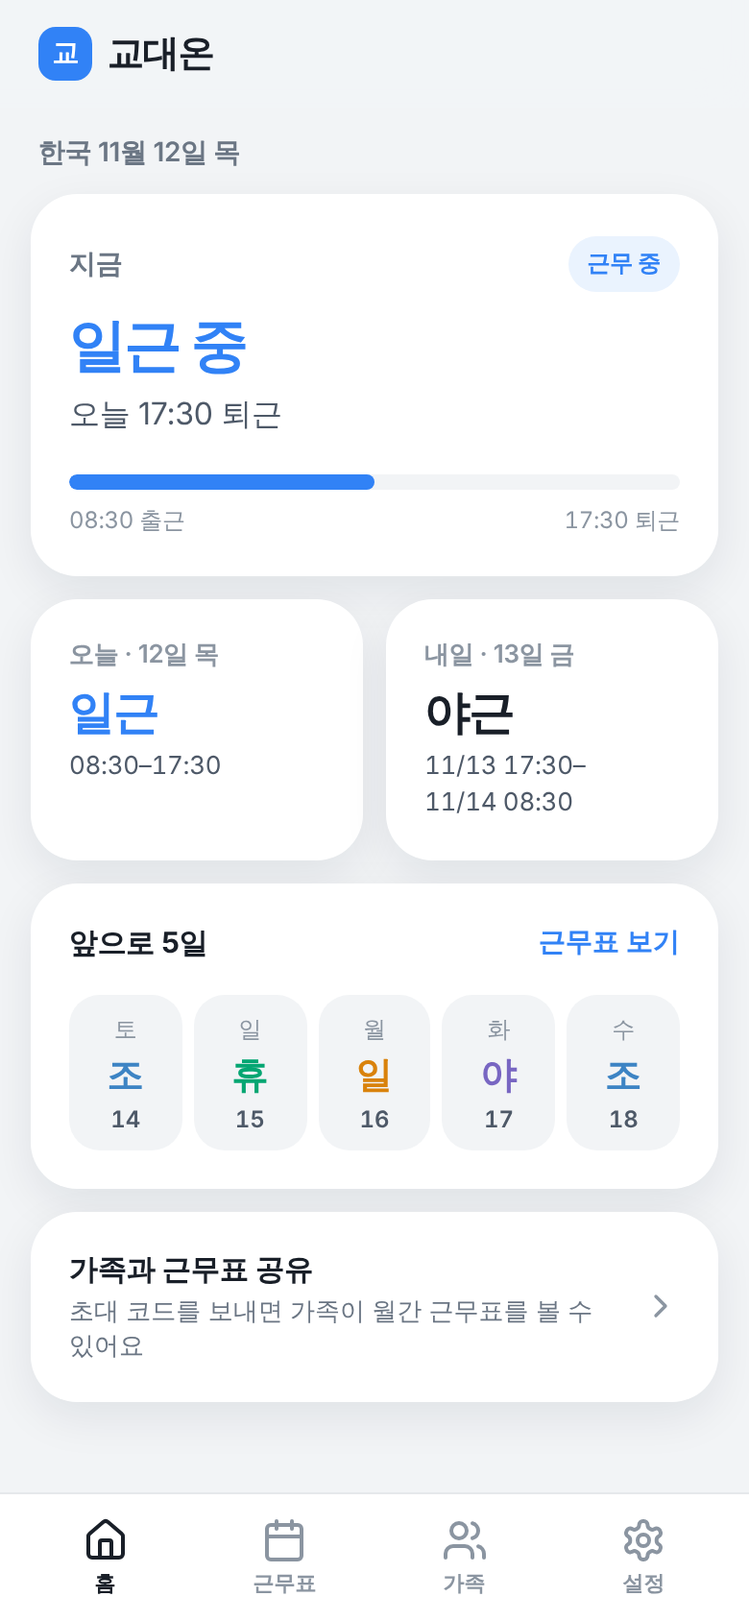
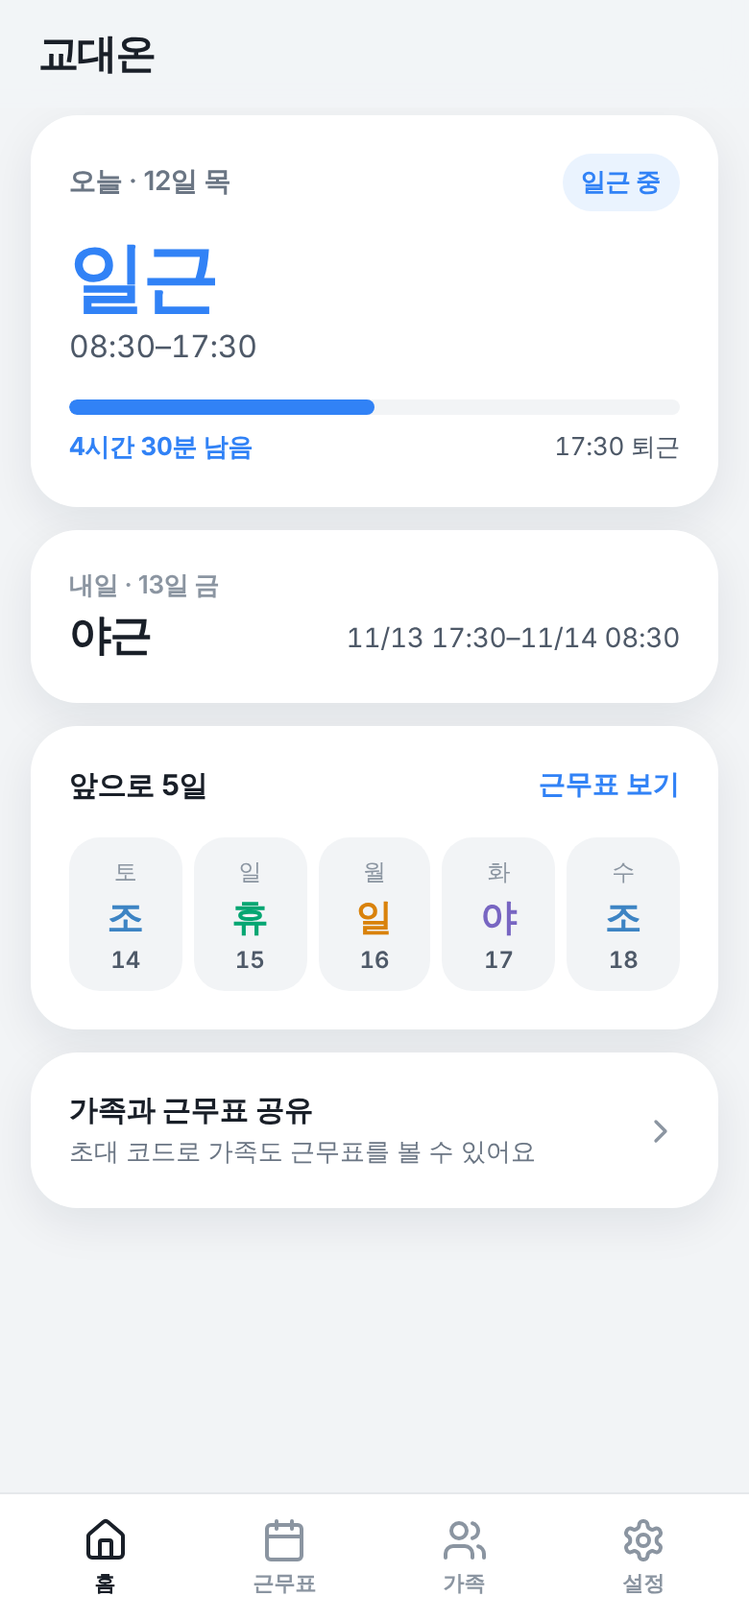
앱 홈을 위젯과 같은 구성으로 다듬고 글자 아이콘 제거
- 홈: 오늘 카드 하나(큰 근무, 시간, 상태, 남은 시간 진행), 내일 한 줄, 앞으로 5일
- 겹치던 정보(근무 중, 퇴근 시각, 근무 이름 반복) 정리, 휴무 날 배지 숨김
- 교 글자 아이콘 빼고 글자 로고만
- Stageshow 앱 홈 목업(examples/shiftwork-home)과 이미지, 앱 화면 이미지 갱신
- 실제 앱을 Stageshow layout 검사로 점검, HANDOFF 기록

Claude-Session: https://claude.ai/code/session_01Twwme8pGmW2CRkCqeQFUhx

diff --git a/index.html b/index.html
@@ -16,8 +16,7 @@ button{cursor:pointer;-webkit-tap-highlight-color:transparent}
 .ico.s{width:20px;height:20px}
 .app{max-width:480px;min-height:100vh;margin:0 auto;position:relative;padding-bottom:calc(88px + env(safe-area-inset-bottom))}
 .topbar{position:sticky;top:0;z-index:5;height:56px;padding:0 20px;display:flex;align-items:center;justify-content:space-between;background:color-mix(in srgb,var(--page) 92%,transparent);-webkit-backdrop-filter:blur(14px);backdrop-filter:blur(14px)}
-.logo{display:flex;align-items:center;gap:8px;font-size:19px;font-weight:700;letter-spacing:-.03em}
-.logo-mark{width:28px;height:28px;border-radius:9px;background:var(--blue);color:#fff;display:grid;place-items:center;font-size:14px;font-weight:700}
+.logo{font-size:21px;font-weight:800;letter-spacing:-.04em;color:var(--ink)}
 .top-actions{display:none}
 .screen{display:none;padding:4px 16px 24px}
 .screen.active{display:grid;gap:12px;animation:fade .2s ease}
@@ -29,28 +28,28 @@ button{cursor:pointer;-webkit-tap-highlight-color:transparent}
 .page-head{padding:8px 4px 0}
 .page-title{font-size:26px;font-weight:700;letter-spacing:-.03em;line-height:1.3}
 .page-sub{margin:4px 0 0;font-size:14px;color:var(--muted);line-height:1.5}
-/* 홈: 지금 상태 */
-.hero{display:grid;gap:6px;padding:22px 20px 20px}
-.hero-top{display:flex;justify-content:space-between;align-items:center;margin-bottom:4px}
+/* 홈: 오늘(위젯 4x1과 같은 순서: 오늘 크게 → 내일 → 앞으로 5일) */
+.hero{display:grid;padding:20px 20px 22px}
+.hero-top{display:flex;justify-content:space-between;align-items:center;gap:12px}
 .hero-label{font-size:14px;font-weight:600;color:var(--muted)}
-.status-badge{font-size:12px;font-weight:700;padding:6px 10px;border-radius:999px;background:var(--inset);color:var(--body)}
+.status-badge{font-size:13px;font-weight:700;padding:6px 10px;border-radius:999px;background:var(--inset);color:var(--body);white-space:nowrap}
 .hero[data-working] .status-badge{background:var(--blue-soft);color:var(--blue)}
-.hero-title{font-size:30px;font-weight:700;letter-spacing:-.04em;line-height:1.2}
-.hero[data-working] .hero-title{color:var(--blue)}
-.hero-sub{font-size:16px;color:var(--body);line-height:1.45}
-.hero-progress{display:none;gap:8px;margin-top:14px}
+.today-name{font-size:40px;font-weight:700;letter-spacing:-.04em;line-height:1.2;color:var(--blue);margin-top:10px}
+.today-hour{font-size:16px;color:var(--body);font-variant-numeric:tabular-nums;margin-top:2px}
+.today-hour:empty{display:none}
+.hero-sub{font-size:15px;color:var(--ink);font-weight:600;margin-top:16px;padding-top:16px;border-top:1px solid var(--line);line-height:1.45}
+.hero[data-working] .hero-sub{display:none}
+.hero-progress{display:none;gap:8px;margin-top:18px}
 .hero[data-working] .hero-progress{display:grid}
 .progress{height:8px;border-radius:99px;background:var(--inset);overflow:hidden}
 .progress i{display:block;height:100%;width:0;background:var(--blue);border-radius:inherit;transition:width .4s ease}
-.progress-label{display:flex;justify-content:space-between;font-size:12px;color:var(--sub);font-variant-numeric:tabular-nums}
-.hero-bottom{display:none}
-/* 홈: 오늘·내일 */
-.shift-pair{display:grid;grid-template-columns:1fr 1fr;gap:12px}
-.shift-card{display:grid;gap:4px;align-content:start}
+.progress-label{display:flex;justify-content:space-between;gap:12px;font-size:13px;color:var(--body);font-variant-numeric:tabular-nums}
+.progress-label span:first-child{color:var(--blue);font-weight:700}
+/* 홈: 내일 */
+.next-row{display:flex;justify-content:space-between;align-items:flex-end;gap:16px}
 .shift-head{font-size:13px;font-weight:600;color:var(--sub)}
-.shift-name{font-size:24px;font-weight:700;letter-spacing:-.03em;line-height:1.25;margin-top:2px}
-.shift-card.today .shift-name{color:var(--blue)}
-.shift-hour{font-size:13px;color:var(--body);line-height:1.45;font-variant-numeric:tabular-nums}
+.next-name{font-size:22px;font-weight:700;letter-spacing:-.03em;line-height:1.25;margin-top:4px}
+.next-hour{font-size:14px;color:var(--body);line-height:1.45;text-align:right;font-variant-numeric:tabular-nums;padding-bottom:2px}
 /* 홈: 앞으로 5일 */
 .card-head{display:flex;justify-content:space-between;align-items:center;margin:-4px 0 12px}
 .card-head span{font-size:15px;font-weight:700}
@@ -149,24 +148,21 @@ button{cursor:pointer;-webkit-tap-highlight-color:transparent}
 <symbol id="i-right" viewBox="0 0 24 24"><path d="m9 18 6-6-6-6"/></symbol>
 </defs></svg>
 <div class="app">
-<header class="topbar"><div class="logo"><span class="logo-mark" aria-hidden="true">교</span>교대온</div><div class="top-actions"><button class="round" id="topShare" aria-label="가족 공유" hidden></button><button class="round" id="topSettings" aria-label="설정" hidden></button></div></header>
+<header class="topbar"><div class="logo">교대온</div><div class="top-actions"><button class="round" id="topShare" aria-label="가족 공유" hidden></button><button class="round" id="topSettings" aria-label="설정" hidden></button></div></header>
 <main>
 <section class="screen active" id="screen-home">
 <h1 class="sr">오늘·내일 근무</h1>
-<div class="greeting"><span class="date-pill" id="datePill"></span></div>
 <div class="card hero" id="hero">
-<div class="hero-top"><span class="hero-label" id="heroLabel">지금</span><span class="status-badge"><span id="heroBadge">근무 아님</span></span></div>
-<div class="hero-title" id="heroTitle">근무 상태</div>
+<div class="hero-top"><span class="hero-label" id="todayHead">오늘</span><span class="status-badge" id="heroTitle">근무 상태</span></div>
+<div class="today-name" id="todayShiftName">—</div>
+<div class="today-hour" id="todayShiftHour">—</div>
 <div class="hero-sub" id="heroSub"></div>
 <div class="hero-progress"><div class="progress"><i id="progressFill"></i></div><div class="progress-label"><span id="progressFrom"></span><span id="progressTo"></span></div></div>
-<div class="hero-bottom"><span id="nextLabel"></span><strong id="nextTime"></strong></div>
+<span hidden><span id="datePill"></span><span id="heroLabel"></span><span id="heroBadge"></span><span id="nextLabel"></span><span id="nextTime"></span></span>
 </div>
-<div class="shift-pair">
-<article class="card shift-card today"><div class="shift-head" id="todayHead">오늘</div><div class="shift-name" id="todayShiftName">—</div><div class="shift-hour" id="todayShiftHour">—</div></article>
-<article class="card shift-card"><div class="shift-head" id="tomorrowHead">내일</div><div class="shift-name" id="tomorrowShiftName">—</div><div class="shift-hour" id="tomorrowShiftHour">—</div></article>
-</div>
+<div class="card next-row"><div><div class="shift-head" id="tomorrowHead">내일</div><div class="next-name" id="tomorrowShiftName">—</div></div><div class="next-hour" id="tomorrowShiftHour">—</div></div>
 <div class="card"><div class="card-head"><span>앞으로 5일</span><button class="text-btn" data-screen="calendar">근무표 보기</button></div><div class="days" id="week5"></div></div>
-<button class="card row-link" data-go="family"><span><b>가족과 근무표 공유</b><small>초대 코드를 보내면 가족이 월간 근무표를 볼 수 있어요</small></span><svg class="ico s" aria-hidden="true"><use href="#i-right"/></svg></button>
+<button class="card row-link" data-go="family"><span><b>가족과 근무표 공유</b><small>초대 코드로 가족도 근무표를 볼 수 있어요</small></span><svg class="ico s" aria-hidden="true"><use href="#i-right"/></svg></button>
 <div class="quick-hidden"><span id="iosStatus">—</span><span id="iosToday">—</span><span id="iosTomorrow">—</span><span id="androidStatus">—</span><span id="androidToday">—</span><span id="androidTomorrow">—</span></div>
 </section>
 <section class="screen" id="screen-calendar">
@@ -211,7 +207,7 @@ button{cursor:pointer;-webkit-tap-highlight-color:transparent}
 <div class="modal-back" id="modal"><section class="sheet" role="dialog" aria-labelledby="sheetTitle"><h3 id="sheetTitle">초대 코드가 복사됐어요</h3><p id="modalText">가족에게 코드를 보내고 앱에서 입력하도록 안내하세요.</p><div class="sheet-actions"><button class="soft" id="closeModal">닫기</button><button class="primary" id="copyAgain">코드 다시 복사</button></div><div class="demo">디자인 시제품이라 초대·서버 연결은 실제로 동작하지 않아요.</div></section></div>
 </div>
 <script>
-(()=>{const cycle=['일','야','조','휴'],names={일:'일근',야:'야근',조:'조근',휴:'휴무'},key='shift-on-mobile-ui-v1';const KST='Asia/Seoul';let now=new Date();const deviceTimeZone=Intl.DateTimeFormat().resolvedOptions().timeZone||KST;function zonedParts(d,tz){const out={};for(const p of new Intl.DateTimeFormat('en-CA',{timeZone:tz,year:'numeric',month:'2-digit',day:'2-digit',hour:'2-digit',minute:'2-digit',hourCycle:'h23'}).formatToParts(d))if(p.type!=='literal')out[p.type]=p.value;return out}function kstDate(d){const p=zonedParts(d,KST);return `${p.year}-${p.month}-${p.day}`}function dateKeyUTC(d){return `${d.getUTCFullYear()}-${String(d.getUTCMonth()+1).padStart(2,'0')}-${String(d.getUTCDate()).padStart(2,'0')}`}function addDays(key,n){const [y,m,d]=key.split('-').map(Number),x=new Date(Date.UTC(y,m-1,d+n));return dateKeyUTC(x)}function monthStart(key){const [y,m]=key.split('-').map(Number);return new Date(Date.UTC(y,m-1,1))}const fmt=dateKeyUTC;let data={anchor:kstDate(now),anchorShift:'일',overrides:{},invite:'',month:monthStart(kstDate(now)),selected:null};try{Object.assign(data,JSON.parse(localStorage.getItem(key)||'{}'))}catch{};data.month=monthStart(kstDate(now));let toastTimer;const $=s=>document.querySelector(s);function diffDays(a,b){const [ay,am,ad]=a.split('-').map(Number),[by,bm,bd]=b.split('-').map(Number);return (Date.UTC(ay,am-1,ad)-Date.UTC(by,bm-1,bd))/86400000}function mod(n,m){return((n%m)+m)%m}function shiftOn(date){if(data.overrides?.[date])return data.overrides[date];return cycle[mod(cycle.indexOf(data.anchorShift)+diffDays(date,data.anchor),4)]}function dateShift(d){return names[shiftOn(d)]}function tomorrowIso(d=new Date()){return addDays(kstDate(d),1)}function kstInstant(date,time){const [y,m,day]=date.split('-').map(Number),[h,min]=time.split(':').map(Number);return new Date(Date.UTC(y,m-1,day,h-9,min))}function shiftInstants(date,shift){if(shift==='일')return[kstInstant(date,'08:30'),kstInstant(date,'17:30')];if(shift==='야')return[kstInstant(date,'17:30'),kstInstant(addDays(date,1),'08:30')];if(shift==='조')return[kstInstant(addDays(date,-1),'17:30'),kstInstant(date,'08:30')];return null}function dateTimeInZone(d,tz){const p=zonedParts(d,tz);return `${Number(p.month)}/${Number(p.day)} ${p.hour}:${p.minute}`}function timeInZone(d,tz){const p=zonedParts(d,tz);return `${p.hour}:${p.minute}`}function rangeInZone(date,shift,tz){const pair=shiftInstants(date,shift);if(!pair)return '휴무';const [a,b]=pair,pa=zonedParts(a,tz),pb=zonedParts(b,tz),cross=pa.year!==pb.year||pa.month!==pb.month||pa.day!==pb.day;return cross||tz!==KST?`${dateTimeInZone(a,tz)}–${dateTimeInZone(b,tz)}`:`${timeInZone(a,tz)}–${timeInZone(b,tz)}`}function localShiftRange(date,shift){return rangeInZone(date,shift,deviceTimeZone)}function timezoneSummary(date,shift){if(shift==='휴')return '한국 기준 휴무';const kr=rangeInZone(date,shift,KST);return deviceTimeZone===KST?`한국시간 ${kr}`:`한국 ${kr} · 휴대폰 현지 ${localShiftRange(date,shift)}`}function showToast(text){const el=$('#toast');el.textContent=text;el.classList.add('show');clearTimeout(toastTimer);toastTimer=setTimeout(()=>el.classList.remove('show'),1800)}function afterWork(tom){const ts=shiftOn(tom);if(ts==='휴')return{title:'퇴근 후',sub:'내일은 휴무',working:false,next:'휴무'};const start=timeInZone(shiftInstants(tom,ts)[0],deviceTimeZone);return{title:'퇴근 후',sub:`내일 ${names[ts]} · ${start} 출근`,working:false,next:start}}function workState(d){const date=kstDate(d),p=zonedParts(d,KST),mins=Number(p.hour)*60+Number(p.minute),s=shiftOn(date),tom=addDays(date,1),clock=(day,time)=>timeInZone(kstInstant(day,time),deviceTimeZone);if(s==='일'&&mins>=510&&mins<1050)return{title:'일근 중',sub:`오늘 ${clock(date,'17:30')} 퇴근`,working:true,next:clock(date,'17:30')};if(s==='야'&&mins>=1050)return{title:'야근 중',sub:`내일 ${clock(tom,'08:30')} 퇴근`,working:true,next:clock(tom,'08:30')};if(s==='조'&&mins<510)return{title:'야근 중',sub:`오늘 ${clock(date,'08:30')} 퇴근`,working:true,next:clock(date,'08:30')};if(s==='일'&&mins<510)return{title:'근무 전',sub:`오늘 ${clock(date,'08:30')} 출근`,working:false,next:clock(date,'08:30')};if(s==='야'&&mins<1050)return{title:'근무 전',sub:`오늘 ${clock(date,'17:30')} 야근 시작`,working:false,next:clock(date,'17:30')};if(s==='일'||s==='조')return afterWork(tom);return{title:'휴무',sub:'오늘은 쉬는 날',working:false,next:'다음 근무 확인'}}const WD=['일','월','화','수','목','금','토'];function wd(k){return WD[new Date(k+'T00:00:00Z').getUTCDay()]}function openDate(k){data.month=monthStart(k);setScreen('calendar');renderCalendar();document.querySelector(`.calday[data-date="${k}"]`)?.click()}function syncSeg(){const v=$('#editShift').value;document.querySelectorAll('#seg button').forEach(b=>b.setAttribute('aria-pressed',String(b.dataset.v===v)))}function renderHome(){const date=kstDate(now),tom=tomorrowIso(now),state=workState(now),today=shiftOn(date),next=shiftOn(tom);const dp=zonedParts(now,KST);$('#datePill').textContent=`한국 ${Number(dp.month)}월 ${Number(dp.day)}일 ${['일','월','화','수','목','금','토'][new Date(Date.UTC(Number(dp.year),Number(dp.month)-1,Number(dp.day))).getUTCDay()]}`;$('#heroTitle').textContent=state.title;$('#heroSub').textContent=state.sub;$('#heroBadge').textContent=state.working?'근무 중':'근무 아님';$('#hero').toggleAttribute('data-working',state.working);$('#nextLabel').textContent=state.working?'다음 퇴근':'다음 출근';$('#nextTime').textContent=state.next;const pair=state.working?shiftInstants(date,today):null;if(pair){const[a,b]=pair,pct=Math.max(0,Math.min(100,(now-a)/(b-a)*100));$('#progressFill').style.width=pct.toFixed(1)+'%';$('#progressFrom').textContent=`${timeInZone(a,deviceTimeZone)} 출근`;$('#progressTo').textContent=`${timeInZone(b,deviceTimeZone)} 퇴근`}$('#todayHead').textContent=`오늘 · ${Number(date.slice(-2))}일 ${wd(date)}`;$('#tomorrowHead').textContent=`내일 · ${Number(tom.slice(-2))}일 ${wd(tom)}`;let w5='';for(let i=2;i<=6;i++){const k=addDays(date,i),x=shiftOn(k);w5+=`<button type="button" class="day" data-date="${k}" aria-label="${Number(k.slice(5,7))}월 ${Number(k.slice(-2))}일 ${names[x]}"><span class="w">${wd(k)}</span><span class="s tag-${x}">${names[x][0]}</span><span class="n">${Number(k.slice(-2))}</span></button>`}$('#week5').innerHTML=w5;document.querySelectorAll('#week5 .day').forEach(b=>b.onclick=()=>openDate(b.dataset.date));$('#todayShiftName').textContent=names[today];$('#todayShiftHour').textContent=localShiftRange(date,today).replace(/ /g,'\u00a0').replace('–','–\u200b');$('#tomorrowShiftName').textContent=names[next];$('#tomorrowShiftHour').textContent=localShiftRange(tom,next).replace(/ /g,'\u00a0').replace('–','–\u200b');const mini=state.working?'근무 중':state.title==='휴무'?'휴무':'근무 아님';$('#iosStatus').textContent=mini;$('#androidStatus').textContent=mini;$('#iosToday').textContent=names[today];$('#androidToday').textContent=names[today];$('#iosTomorrow').textContent=names[next];$('#androidTomorrow').textContent=names[next]}
+(()=>{const cycle=['일','야','조','휴'],names={일:'일근',야:'야근',조:'조근',휴:'휴무'},key='shift-on-mobile-ui-v1';const KST='Asia/Seoul';let now=new Date();const deviceTimeZone=Intl.DateTimeFormat().resolvedOptions().timeZone||KST;function zonedParts(d,tz){const out={};for(const p of new Intl.DateTimeFormat('en-CA',{timeZone:tz,year:'numeric',month:'2-digit',day:'2-digit',hour:'2-digit',minute:'2-digit',hourCycle:'h23'}).formatToParts(d))if(p.type!=='literal')out[p.type]=p.value;return out}function kstDate(d){const p=zonedParts(d,KST);return `${p.year}-${p.month}-${p.day}`}function dateKeyUTC(d){return `${d.getUTCFullYear()}-${String(d.getUTCMonth()+1).padStart(2,'0')}-${String(d.getUTCDate()).padStart(2,'0')}`}function addDays(key,n){const [y,m,d]=key.split('-').map(Number),x=new Date(Date.UTC(y,m-1,d+n));return dateKeyUTC(x)}function monthStart(key){const [y,m]=key.split('-').map(Number);return new Date(Date.UTC(y,m-1,1))}const fmt=dateKeyUTC;let data={anchor:kstDate(now),anchorShift:'일',overrides:{},invite:'',month:monthStart(kstDate(now)),selected:null};try{Object.assign(data,JSON.parse(localStorage.getItem(key)||'{}'))}catch{};data.month=monthStart(kstDate(now));let toastTimer;const $=s=>document.querySelector(s);function diffDays(a,b){const [ay,am,ad]=a.split('-').map(Number),[by,bm,bd]=b.split('-').map(Number);return (Date.UTC(ay,am-1,ad)-Date.UTC(by,bm-1,bd))/86400000}function mod(n,m){return((n%m)+m)%m}function shiftOn(date){if(data.overrides?.[date])return data.overrides[date];return cycle[mod(cycle.indexOf(data.anchorShift)+diffDays(date,data.anchor),4)]}function dateShift(d){return names[shiftOn(d)]}function tomorrowIso(d=new Date()){return addDays(kstDate(d),1)}function kstInstant(date,time){const [y,m,day]=date.split('-').map(Number),[h,min]=time.split(':').map(Number);return new Date(Date.UTC(y,m-1,day,h-9,min))}function shiftInstants(date,shift){if(shift==='일')return[kstInstant(date,'08:30'),kstInstant(date,'17:30')];if(shift==='야')return[kstInstant(date,'17:30'),kstInstant(addDays(date,1),'08:30')];if(shift==='조')return[kstInstant(addDays(date,-1),'17:30'),kstInstant(date,'08:30')];return null}function dateTimeInZone(d,tz){const p=zonedParts(d,tz);return `${Number(p.month)}/${Number(p.day)} ${p.hour}:${p.minute}`}function timeInZone(d,tz){const p=zonedParts(d,tz);return `${p.hour}:${p.minute}`}function rangeInZone(date,shift,tz){const pair=shiftInstants(date,shift);if(!pair)return '휴무';const [a,b]=pair,pa=zonedParts(a,tz),pb=zonedParts(b,tz),cross=pa.year!==pb.year||pa.month!==pb.month||pa.day!==pb.day;return cross||tz!==KST?`${dateTimeInZone(a,tz)}–${dateTimeInZone(b,tz)}`:`${timeInZone(a,tz)}–${timeInZone(b,tz)}`}function localShiftRange(date,shift){return rangeInZone(date,shift,deviceTimeZone)}function timezoneSummary(date,shift){if(shift==='휴')return '한국 기준 휴무';const kr=rangeInZone(date,shift,KST);return deviceTimeZone===KST?`한국시간 ${kr}`:`한국 ${kr} · 휴대폰 현지 ${localShiftRange(date,shift)}`}function showToast(text){const el=$('#toast');el.textContent=text;el.classList.add('show');clearTimeout(toastTimer);toastTimer=setTimeout(()=>el.classList.remove('show'),1800)}function afterWork(tom){const ts=shiftOn(tom);if(ts==='휴')return{title:'퇴근 후',sub:'내일은 휴무',working:false,next:'휴무'};const start=timeInZone(shiftInstants(tom,ts)[0],deviceTimeZone);return{title:'퇴근 후',sub:`내일 ${names[ts]} · ${start} 출근`,working:false,next:start}}function workState(d){const date=kstDate(d),p=zonedParts(d,KST),mins=Number(p.hour)*60+Number(p.minute),s=shiftOn(date),tom=addDays(date,1),clock=(day,time)=>timeInZone(kstInstant(day,time),deviceTimeZone);if(s==='일'&&mins>=510&&mins<1050)return{title:'일근 중',sub:`오늘 ${clock(date,'17:30')} 퇴근`,working:true,next:clock(date,'17:30')};if(s==='야'&&mins>=1050)return{title:'야근 중',sub:`내일 ${clock(tom,'08:30')} 퇴근`,working:true,next:clock(tom,'08:30')};if(s==='조'&&mins<510)return{title:'야근 중',sub:`오늘 ${clock(date,'08:30')} 퇴근`,working:true,next:clock(date,'08:30')};if(s==='일'&&mins<510)return{title:'근무 전',sub:`오늘 ${clock(date,'08:30')} 출근`,working:false,next:clock(date,'08:30')};if(s==='야'&&mins<1050)return{title:'근무 전',sub:`오늘 ${clock(date,'17:30')} 야근 시작`,working:false,next:clock(date,'17:30')};if(s==='일'||s==='조')return afterWork(tom);return{title:'휴무',sub:'오늘은 쉬는 날',working:false,next:'다음 근무 확인'}}const WD=['일','월','화','수','목','금','토'];function wd(k){return WD[new Date(k+'T00:00:00Z').getUTCDay()]}function openDate(k){data.month=monthStart(k);setScreen('calendar');renderCalendar();document.querySelector(`.calday[data-date="${k}"]`)?.click()}function syncSeg(){const v=$('#editShift').value;document.querySelectorAll('#seg button').forEach(b=>b.setAttribute('aria-pressed',String(b.dataset.v===v)))}function renderHome(){const date=kstDate(now),tom=tomorrowIso(now),state=workState(now),today=shiftOn(date),next=shiftOn(tom);const dp=zonedParts(now,KST);$('#datePill').textContent=`한국 ${Number(dp.month)}월 ${Number(dp.day)}일 ${['일','월','화','수','목','금','토'][new Date(Date.UTC(Number(dp.year),Number(dp.month)-1,Number(dp.day))).getUTCDay()]}`;$('#heroTitle').textContent=state.title;$('#heroSub').textContent=state.sub;$('#heroBadge').textContent=state.working?'근무 중':'근무 아님';$('#hero').toggleAttribute('data-working',state.working);$('#heroTitle').hidden=today==='휴';$('#nextLabel').textContent=state.working?'다음 퇴근':'다음 출근';$('#nextTime').textContent=state.next;const pair=state.working?shiftInstants(date,today):null;if(pair){const[a,b]=pair,pct=Math.max(0,Math.min(100,(now-a)/(b-a)*100));$('#progressFill').style.width=pct.toFixed(1)+'%';const left=Math.max(0,Math.round((b-now)/60000)),lh=Math.floor(left/60),lm=left%60;$('#progressFrom').textContent=(lh?`${lh}시간 `:'')+(lm||!lh?`${lm}분 `:'')+'남음';$('#progressTo').textContent=`${timeInZone(b,deviceTimeZone)} 퇴근`}$('#todayHead').textContent=`오늘 · ${Number(date.slice(-2))}일 ${wd(date)}`;$('#tomorrowHead').textContent=`내일 · ${Number(tom.slice(-2))}일 ${wd(tom)}`;let w5='';for(let i=2;i<=6;i++){const k=addDays(date,i),x=shiftOn(k);w5+=`<button type="button" class="day" data-date="${k}" aria-label="${Number(k.slice(5,7))}월 ${Number(k.slice(-2))}일 ${names[x]}"><span class="w">${wd(k)}</span><span class="s tag-${x}">${names[x][0]}</span><span class="n">${Number(k.slice(-2))}</span></button>`}$('#week5').innerHTML=w5;document.querySelectorAll('#week5 .day').forEach(b=>b.onclick=()=>openDate(b.dataset.date));$('#todayShiftName').textContent=names[today];$('#todayShiftHour').textContent=today==='휴'?'':localShiftRange(date,today).replace(/ /g,'\u00a0').replace('–','–\u200b');$('#tomorrowShiftName').textContent=names[next];$('#tomorrowShiftHour').textContent=next==='휴'?'':localShiftRange(tom,next).replace(/ /g,'\u00a0').replace('–','–\u200b');const mini=state.working?'근무 중':state.title==='휴무'?'휴무':'근무 아님';$('#iosStatus').textContent=mini;$('#androidStatus').textContent=mini;$('#iosToday').textContent=names[today];$('#androidToday').textContent=names[today];$('#iosTomorrow').textContent=names[next];$('#androidTomorrow').textContent=names[next]}
 function renderCalendar(){const m=data.month,y=m.getUTCFullYear(),mo=m.getUTCMonth();$('#monthTitle').textContent=`${y}년 ${mo+1}월`;$('#week').innerHTML=['일','월','화','수','목','금','토'].map(x=>`<div>${x}</div>`).join('');const first=new Date(Date.UTC(y,mo,1)),start=new Date(Date.UTC(y,mo,1-first.getUTCDay())),today=kstDate(now);let html='';for(let i=0;i<42;i++){const d=new Date(start);d.setUTCDate(start.getUTCDate()+i);const id=fmt(d),s=shiftOn(id),cl=['calday',d.getUTCMonth()!==mo?'dim':'',id===today?'today':'',id===data.selected?'sel':''].filter(Boolean).join(' ');html+=`<button type="button" class="${cl}" data-date="${id}" aria-label="${d.getUTCMonth()+1}월 ${d.getUTCDate()}일 ${names[s]}"><span class="calnum">${d.getUTCDate()}</span><span class="tag tag-${s}">${names[s]}</span></button>`}$('#calendar').innerHTML=html;document.querySelectorAll('.calday').forEach(e=>e.onclick=()=>{data.selected=e.dataset.date;$('#editor').classList.add('open');$('#editorTitle').textContent=`${Number(data.selected.slice(-2))}일 근무`;$('#editShift').value=shiftOn(data.selected);syncSeg();$('#timezoneSummary').textContent=timezoneSummary(data.selected,shiftOn(data.selected));renderCalendar()})}
 function persist(){localStorage.setItem(key,JSON.stringify({anchor:data.anchor,anchorShift:data.anchorShift,overrides:data.overrides,invite:data.invite}));renderHome();renderCalendar()}
 function genCode(){const c='ABCDEFGHJKMNPQRSTUVWXYZ23456789';let out='';for(let i=0;i<6;i++)out+=c[Math.floor(Math.random()*c.length)];data.invite=out;$('#inviteCode').textContent=out;persist();showToast('초대 코드 화면 시연용으로 생성됨')}

diff --git a/design/examples/shiftwork-home/home.css b/design/examples/shiftwork-home/home.css
@@ -1,0 +1,110 @@
+/* 교대온 앱 홈 제품 사진. 값은 앱 index.html v0.2와 같음. 단위: 폰 화면 포인트 */
+.swh {
+  --swh-page: #f2f4f6;
+  --swh-card: #ffffff;
+  --swh-inset: #f2f4f6;
+  --swh-ink: #191f28;
+  --swh-body: #4e5968;
+  --swh-muted: #6b7684;
+  --swh-sub: #8b95a1;
+  --swh-blue: #3182f6;
+  --swh-blue-soft: color-mix(in srgb, #3182f6 10%, #ffffff);
+  --swh-s1: #d9820b;
+  --swh-s2: #7866c2;
+  --swh-s3: #3d84c4;
+  --swh-s4: #05a672;
+  --swh-shadow: 0 8px 24px rgba(0, 23, 51, 0.08);
+
+  .ss-stage { overflow: hidden; background: var(--swh-page); }
+
+  .swh-device {
+    position: absolute;
+    filter: drop-shadow(0 30px 40px rgba(0, 23, 51, 0.14)) drop-shadow(0 8px 14px rgba(0, 23, 51, 0.07));
+  }
+
+  .swh-app {
+    height: 100%;
+    color: var(--swh-ink);
+    font-family: 'Toss Product Sans', -apple-system, BlinkMacSystemFont, 'Apple SD Gothic Neo', 'Noto Sans KR', 'Noto Sans CJK KR', sans-serif;
+    letter-spacing: -0.01em;
+  }
+
+  .swh-top {
+    height: 56px;
+    padding: 0 20px;
+    display: flex;
+    align-items: center;
+    font-size: 21px;
+    font-weight: 800;
+    letter-spacing: -0.04em;
+  }
+
+  .swh-screen { padding: 4px 16px 0; display: grid; gap: 12px; }
+
+  .swh-card {
+    background: var(--swh-card);
+    border-radius: 24px;
+    box-shadow: var(--swh-shadow);
+    padding: 20px;
+  }
+
+  .swh-hero { padding: 20px 20px 22px; }
+  .swh-hero__top { display: flex; justify-content: space-between; align-items: center; gap: 12px; }
+  .swh-cap { font-size: 14px; font-weight: 600; color: var(--swh-muted); line-height: 1.3; }
+  .swh-cap--sub { font-size: 13px; color: var(--swh-sub); }
+  .swh-badge {
+    font-size: 13px;
+    font-weight: 700;
+    line-height: 1.3;
+    padding: 6px 10px;
+    border-radius: 999px;
+    background: var(--swh-blue-soft);
+    color: var(--swh-blue);
+  }
+  .swh-today { font-size: 40px; font-weight: 700; letter-spacing: -0.04em; line-height: 1.2; color: var(--swh-blue); margin-top: 10px; }
+  .swh-hour { font-size: 16px; color: var(--swh-body); line-height: 1.35; margin-top: 2px; font-variant-numeric: tabular-nums; }
+  .swh-progress { height: 8px; border-radius: 99px; background: var(--swh-inset); overflow: hidden; margin-top: 18px; }
+  .swh-progress i { display: block; height: 100%; background: var(--swh-blue); border-radius: inherit; }
+  .swh-plabel { display: flex; justify-content: space-between; gap: 12px; margin-top: 8px; font-size: 13px; line-height: 1.35; color: var(--swh-body); font-variant-numeric: tabular-nums; }
+  .swh-plabel span:first-child { color: var(--swh-blue); font-weight: 700; }
+
+  .swh-next { display: flex; justify-content: space-between; align-items: flex-end; gap: 16px; }
+  .swh-next__name { font-size: 22px; font-weight: 700; letter-spacing: -0.03em; line-height: 1.25; margin-top: 4px; }
+  .swh-next__hour { font-size: 14px; color: var(--swh-body); line-height: 1.45; padding-bottom: 2px; white-space: nowrap; font-variant-numeric: tabular-nums; }
+
+  .swh-head { display: flex; justify-content: space-between; align-items: center; margin: -4px 0 12px; font-size: 15px; font-weight: 700; line-height: 1.4; }
+  .swh-link { font-size: 14px; font-weight: 600; color: var(--swh-blue); }
+  .swh-days { display: grid; grid-template-columns: repeat(5, 1fr); gap: 6px; }
+  .swh-day { background: var(--swh-inset); border-radius: 16px; padding: 10px 0 9px; display: grid; justify-items: center; gap: 3px; }
+  .swh-day__w { font-size: 12px; color: var(--swh-sub); line-height: 1.3; }
+  .swh-day__s { font-size: 19px; font-weight: 700; line-height: 1.25; }
+  .swh-day__n { font-size: 12px; font-weight: 600; color: var(--swh-body); line-height: 1.3; }
+  .swh-day__s[data-s='일'] { color: var(--swh-s1); }
+  .swh-day__s[data-s='야'] { color: var(--swh-s2); }
+  .swh-day__s[data-s='조'] { color: var(--swh-s3); }
+  .swh-day__s[data-s='휴'] { color: var(--swh-s4); }
+
+  .swh-row { display: flex; align-items: center; justify-content: space-between; gap: 12px; }
+  .swh-row b { display: block; font-size: 15px; line-height: 1.35; }
+  .swh-row small { display: block; font-size: 13px; color: var(--swh-muted); margin-top: 3px; line-height: 1.4; }
+  .swh-ico { width: 20px; height: 20px; fill: none; stroke: var(--swh-sub); stroke-width: 2; stroke-linecap: round; stroke-linejoin: round; flex: none; }
+}
+
+@media (prefers-color-scheme: dark) {
+  .swh {
+    --swh-page: #0f1115;
+    --swh-card: #1a1d24;
+    --swh-inset: #232730;
+    --swh-ink: #f2f4f6;
+    --swh-body: #b0b8c1;
+    --swh-muted: #8b95a1;
+    --swh-sub: #8b95a1;
+    --swh-blue: #4795ff;
+    --swh-blue-soft: color-mix(in srgb, #4795ff 18%, #1a1d24);
+    --swh-s1: #f0b04a;
+    --swh-s2: #b7a5ed;
+    --swh-s3: #8fc0ea;
+    --swh-s4: #5fd3a8;
+    --swh-shadow: none;
+  }
+}

diff --git a/design/examples/shiftwork-home/index.tsx b/design/examples/shiftwork-home/index.tsx
@@ -1,0 +1,116 @@
+import { useEffect, useState } from 'react'
+import { Phone, Stage } from '../../kit'
+import './home.css'
+
+// 교대온 앱 홈(index.html v0.2)의 제품 사진. 정지 이미지.
+// 출발점: gold `phone-touch`(폰 하나, 위에서 고정, 아래로 잘림). 바꾼 것: 앱의 실제 화면과
+// 토스 토큰(design/pages/widget.html과 같은 값, 제3자 정리값이며 공식 토큰 아님), 한국어 문자열.
+// 시각: 서울 2026-11-12(목) 13:00, 기준일 11/12 = 일근, 순환 일→야→조→휴.
+// 주인공: 오늘 카드의 "일근"과 "4시간 30분 남음". 내일·앞으로 5일은 받침, 가족 공유 줄은 잘림.
+// 아이콘: lucide(ISC), 앱과 같은 글리프.
+
+const NAMES: Record<string, string> = { 일: '일근', 야: '야근', 조: '조근', 휴: '휴무' }
+const CYCLE = ['일', '야', '조', '휴']
+const WD = ['일', '월', '화', '수', '목', '금', '토']
+// 11/12(목) = 일근
+const day = (d: number) => ({ d, w: WD[(d - 12 + 4 + 70) % 7]!, s: CYCLE[(d - 12 + 40) % 4]! })
+const NEXT5 = [14, 15, 16, 17, 18].map(day)
+
+function Right() {
+  return (
+    <svg className="swh-ico" viewBox="0 0 24 24" aria-hidden>
+      <path d="m9 18 6-6-6-6" />
+    </svg>
+  )
+}
+
+function App() {
+  return (
+    <div className="swh-app">
+      <div className="swh-top">
+        <span>교대온</span>
+      </div>
+      <div className="swh-screen">
+        <div className="swh-card swh-hero">
+          <div className="swh-hero__top">
+            <span className="swh-cap">오늘 · 12일 목</span>
+            <span className="swh-badge">일근 중</span>
+          </div>
+          <div className="swh-today">일근</div>
+          <div className="swh-hour">08:30–17:30</div>
+          <div className="swh-progress">
+            <i style={{ width: '50%' }} />
+          </div>
+          <div className="swh-plabel">
+            <span>4시간 30분 남음</span>
+            <span>17:30 퇴근</span>
+          </div>
+        </div>
+        <div className="swh-card swh-next">
+          <div>
+            <div className="swh-cap swh-cap--sub">내일 · 13일 금</div>
+            <div className="swh-next__name">야근</div>
+          </div>
+          <div className="swh-next__hour">11/13 17:30–11/14 08:30</div>
+        </div>
+        <div className="swh-card">
+          <div className="swh-head">
+            <span>앞으로 5일</span>
+            <span className="swh-link">근무표 보기</span>
+          </div>
+          <div className="swh-days">
+            {NEXT5.map((n) => (
+              <span className="swh-day" key={n.d}>
+                <span className="swh-day__w">{n.w}</span>
+                <span className="swh-day__s" data-s={n.s}>
+                  {n.s}
+                </span>
+                <span className="swh-day__n">{n.d}</span>
+              </span>
+            ))}
+          </div>
+        </div>
+        <div className="swh-card swh-row">
+          <span>
+            <b>가족과 근무표 공유</b>
+            <small>초대 코드로 가족도 근무표를 볼 수 있어요</small>
+          </span>
+          <Right />
+        </div>
+      </div>
+    </div>
+  )
+}
+
+// 앱처럼 기기 테마를 따른다. 어두운 화면에서는 Phone의 상태바를 밝게(dark).
+function useDarkScheme() {
+  const q = typeof window !== 'undefined' && window.matchMedia ? window.matchMedia('(prefers-color-scheme: dark)') : null
+  const [dark, setDark] = useState(!!q?.matches)
+  useEffect(() => {
+    if (!q) return
+    const on = () => setDark(q.matches)
+    q.addEventListener('change', on)
+    return () => q.removeEventListener('change', on)
+  }, [q])
+  return dark
+}
+
+export default function ShiftworkHome() {
+  const dark = useDarkScheme()
+  return (
+    <Stage width={440} height={650} compact={{ below: 440, width: 358, height: 560 }} className="swh">
+      {(_, __, layout) => {
+        const compact = layout === 'compact'
+        const pw = compact ? 326 : 360
+        const w = compact ? 358 : 440
+        return (
+          <div className="swh-device" style={{ left: Math.round((w - pw) / 2), top: compact ? 16 : 40 }}>
+            <Phone width={pw} frame="pro" dark={dark} wallpaper="var(--swh-page)">
+              <App />
+            </Phone>
+          </div>
+        )
+      }}
+    </Stage>
+  )
+}

diff --git a/design/HANDOFF.md b/design/HANDOFF.md
@@ -32,7 +32,8 @@
 - 앱 index.html v0.2 (2026-11-12): 위젯·제어 센터·근무표 데모와 같은 토스 스타일로 다시 씀(라이트 기본, 기기 다크 모드 따라감). 화면 이미지는 design/images/app/ (홈·근무표·가족·설정 × 라이트·다크, 서울 11/12 13:00 기준).
   - UX 변경: 숨어 있던 홈을 첫 화면·첫 탭으로, 홈에 지금 상태(실제 근무 진행률), 오늘·내일, 앞으로 5일(누르면 근무표에서 그 날짜가 열림), 가족 공유 바로가기. 근무 고르기는 드롭다운 대신 세그먼트 버튼(누르면 시간 요약 미리보기). 달력 칸은 버튼(키보드·화면 읽기). 아이콘은 lucide(ISC) SVG.
   - 상태 문구 로직은 그대로(18개 시각 비교로 확인). 진행표시줄은 원래 68%/22% 고정값이었음.
-  - Stageshow는 목업용이라 앱 코드에는 그 디자인 규칙만 적용함.
+  - v0.3 (같은 날): Stageshow 규칙으로 다시 점검. 홈을 위젯 4x1 순서(오늘 크게 → 내일 → 앞으로 5일)로 합치고 겹치는 정보(근무 중·퇴근 시각·일근 반복) 제거, 근무 중에는 남은 시간 표시. "교" 글자 아이콘은 사용자 요청으로 제거, 글자 로고 "교대온"만.
+  - Stageshow 검사: 실제 앱 4개 화면에 scripts/layout.mjs(390 폭) no-issues-detected. 앱 홈 목업 examples/shiftwork-home(film.mjs --still --gate 1280·390 × 라이트·다크 passed), 이미지 images/export/app-home-{wide,compact}-{light,dark}.png.
 
 ## 결정과 가정
 - 2026-11-12 사용자 위임으로 정한 것: 한글 글꼴은 다운로드하지 않음, 작업은 claude/design-handoff에 계속 쌓고 PR은 만들지 않음, 제어 센터 컨트롤에 출퇴근 시각은 넣지 않음, MacRumors 접속 허용은 요청하지 않음.

diff --git a/design/examples/shiftwork-home/REHEARSAL.md b/design/examples/shiftwork-home/REHEARSAL.md
@@ -1,0 +1,10 @@
+# Rehearsal: 교대온 앱 홈 제품 사진 (정지, 440×650 / compact 358×560)
+Gold: phone-touch (유지: 폰 하나를 위에서 고정해 아래로 자르는 구도, 화면 포인트 단위 / 변경: 앱 index.html v0.2 홈 화면을 그대로 옮김, 토스 토큰, 한국어). 레이아웃은 framing.md의 Pinned, bottom bleed(좌우·위 약 9%).
+Beats: 정지. 시각 서울 2026-11-12 13:00(일근 중, 4시간 30분 남음, 진행 50%).
+Captured: 1280·390 폭 × 라이트·다크, 모두 `film.mjs --still --gate` → rehearsal passed.
+Film/눈으로 고친 것: ① 넓은 화면에서 아래 가장자리가 가족 공유 설명 글자를 가로로 자름(게이트는 못 잡음, craft "Crop only filler") → 높이 600→650, 카드 아래 빈 바탕에서 잘리게 ② 다크에서 상태바 글자가 어두운 화면 위에 어두움 → 기기 테마를 따라 Phone dark 켬.
+실제 앱 검사: scripts/layout.mjs를 index.html 홈·근무표(편집 칸 열림)·가족·설정에 390 폭으로 실행, 모두 no-issues-detected(시각 승인 아님).
+Review: 별도 fresh-eye 리뷰(review.md)는 하지 않음.
+Assumptions: 앱을 iPhone 프레임에 넣음(웹 앱이라 기기 무관). 글꼴은 이 컨테이너의 WenQuanYi Zen Hei.
+Not checked: 리뷰어 검토, 실기기, reduced motion(정지라 해당 적음).
+v1.1: 사용자 요청으로 "교" 글자 아이콘 제거, 상단은 글자 로고 "교대온"만(craft.md "No invented logo… use a plain text wordmark"). 게이트가 글자 상자를 0px로 재는 tight inset을 냄 → 글자를 span으로 감싸 실제 위치(20px)로 측정되게 함. 4가지 조합 다시 rehearsal passed.
